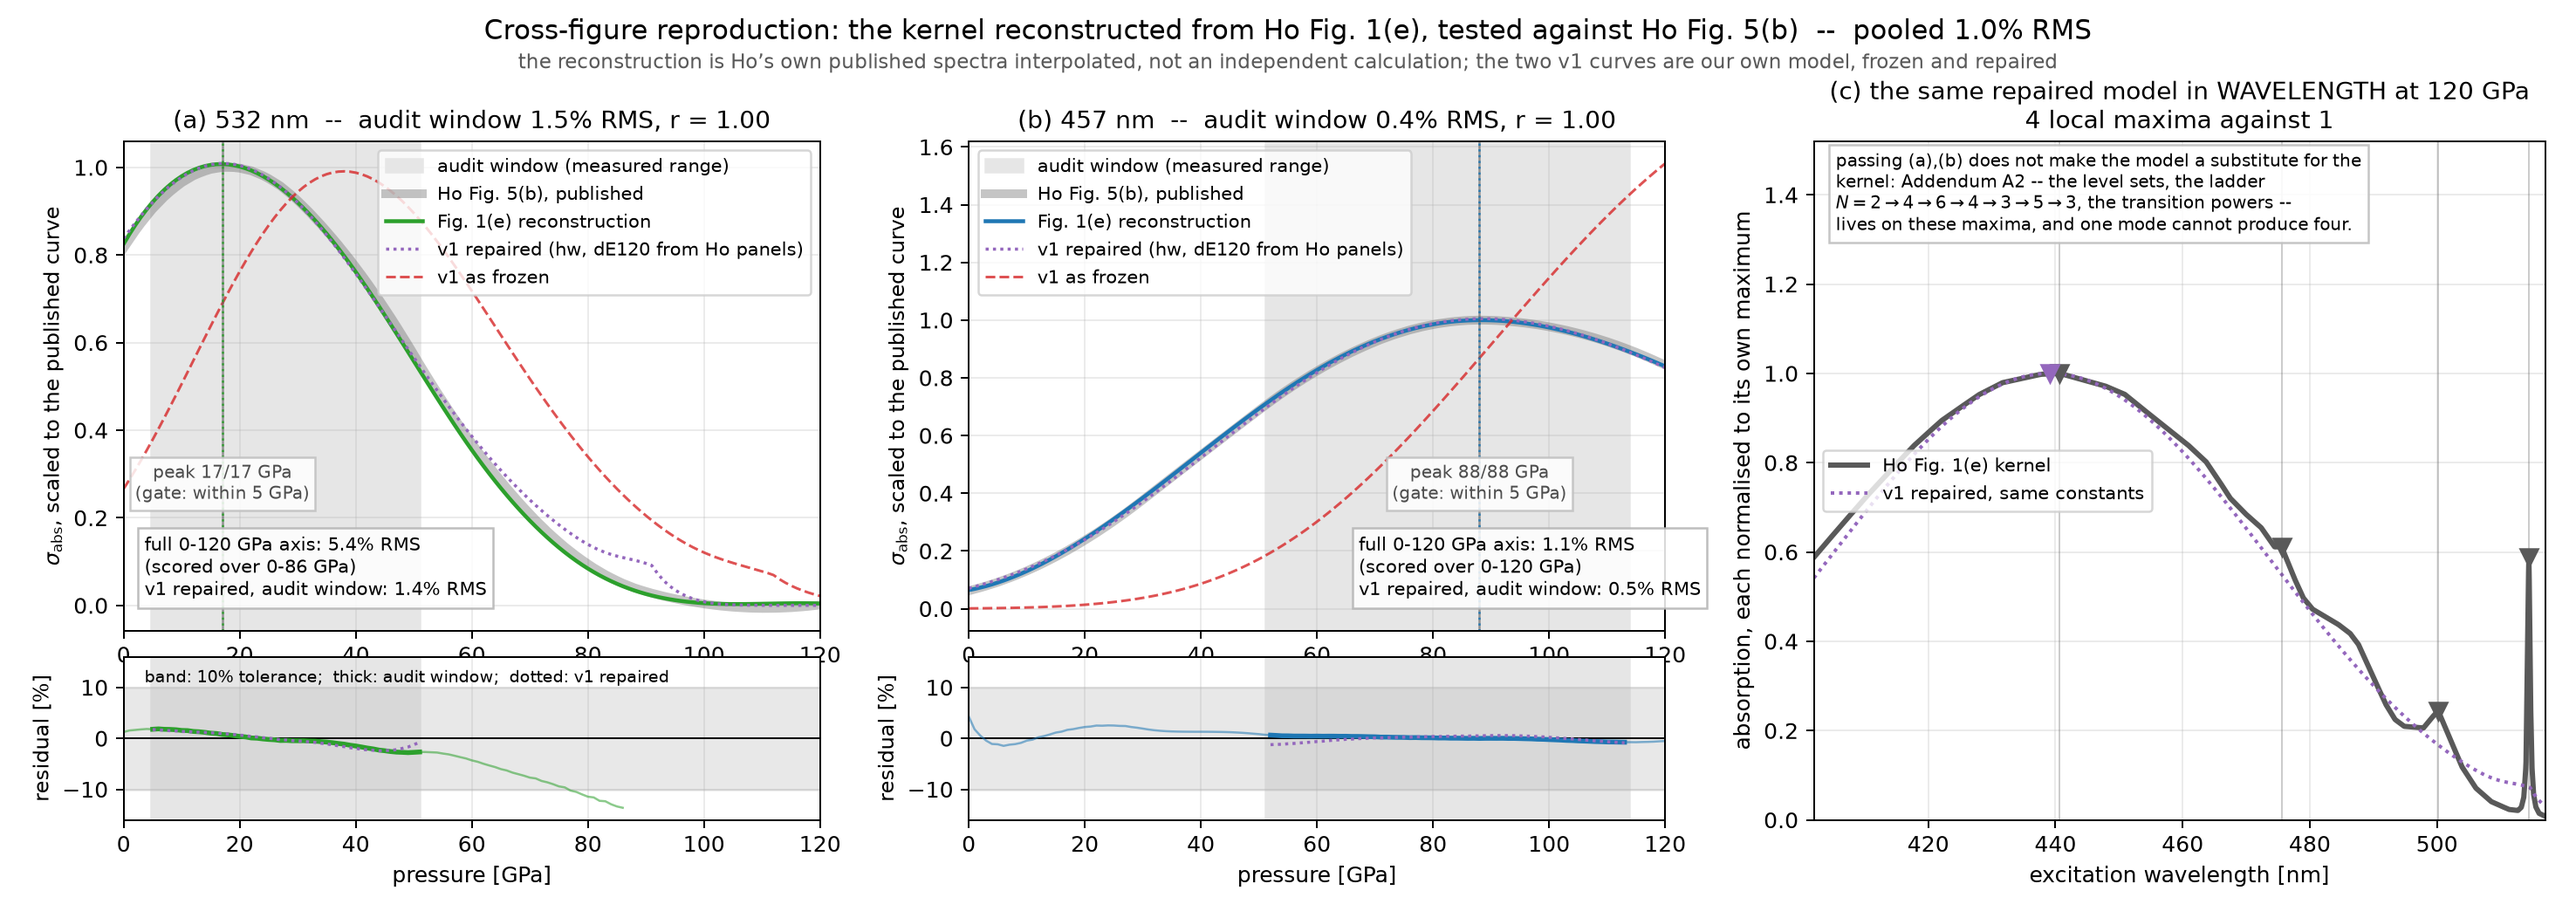
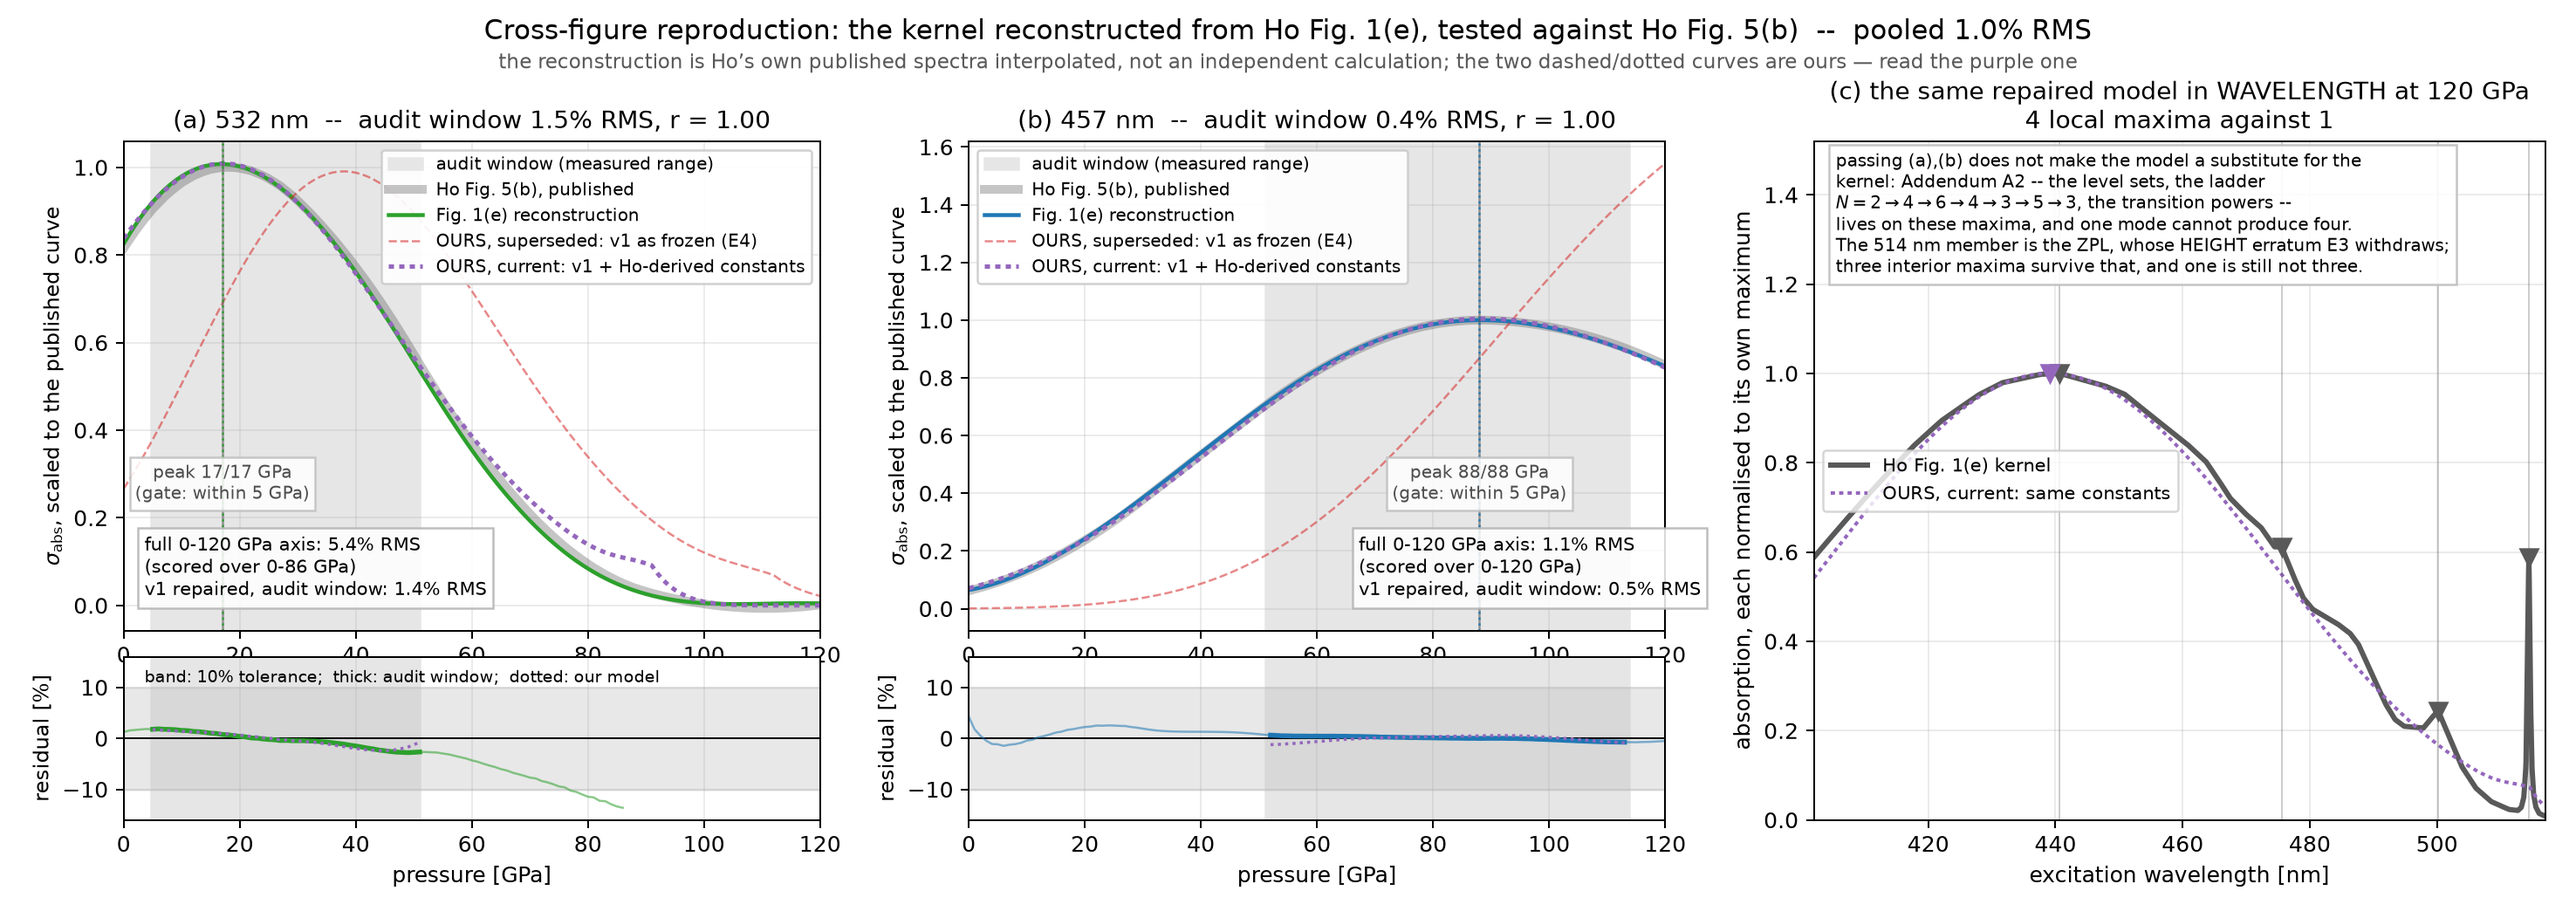
Say in the legend which of our two curves is the current one
"v1 as frozen" and "v1 repaired" did not tell a reader which one to read,
and with the superseded curve drawn heavier than the current one the figure
pointed at the wrong one. Both are now prefixed OURS and labelled
superseded/current, the current curve is the heavier of the two, and the
subtitle says to read the purple one.

Also lands the 514 nm ZPL caveat in panel (c). The previous commit's message
claimed it was there; the edit had not matched, so it was not.

Claude-Session: https://claude.ai/code/session_01Cv2Yg4snpWjz7ZVfDPoPG9

diff --git a/code/fig8_repro_ho_fig5b.py b/code/fig8_repro_ho_fig5b.py
@@ -165,11 +165,12 @@ def main():
                  alpha=0.35, label='Ho Fig. 5(b), published')
         top.plot(pressure, recon / norm, color=COLOUR[lam], lw=1.8,
                  label='Fig. 1(e) reconstruction')
-        top.plot(pressure, fixed / norm, color=V1_FIXED_COLOUR, lw=1.4,
-                 ls=(0, (1, 1.4)),
-                 label='v1 repaired (hw, dE120 from Ho panels)')
-        top.plot(pressure, v1 / norm, color=V1_COLOUR, lw=1.2, ls='--',
-                 alpha=0.8, label='v1 as frozen')
+        top.plot(pressure, v1 / norm, color=V1_COLOUR, lw=1.0, ls='--',
+                 alpha=0.55,
+                 label='OURS, superseded: v1 as frozen (E4)')
+        top.plot(pressure, fixed / norm, color=V1_FIXED_COLOUR, lw=2.0,
+                 ls=(0, (1.2, 1.2)),
+                 label='OURS, current: v1 + Ho-derived constants')
 
         # the peak gate: both markers coincide, so only one line is visible
         peak_ref = float(pressure[inside][np.argmax(reference[inside])])
@@ -208,7 +209,7 @@ def main():
                  bbox=dict(fc='white', ec='0.7', alpha=0.85, pad=3.0))
         top.set_ylabel(r'$\sigma_{\rm abs}$, scaled to the published curve',
                        fontsize=9.5)
-        top.legend(fontsize=8.5,
+        top.legend(fontsize=7.8, framealpha=0.92,
                    loc='upper right' if lam == 532.0 else 'upper left')
         top.grid(alpha=0.25)
 
@@ -234,7 +235,7 @@ def main():
 
     pooled = float(np.sqrt(np.mean(np.concatenate(pooled_window) ** 2)))
     axes[1][0].text(0.03, 0.92, 'band: 10% tolerance;  thick: audit window;  '
-                    'dotted: v1 repaired', transform=axes[1][0].transAxes,
+                    'dotted: our model', transform=axes[1][0].transAxes,
                     fontsize=7.5, va='top')
 
     # ---- (c) why the kernel is still taken from outside --------------------
@@ -251,7 +252,8 @@ def main():
     structure_ax.plot(lam_nm, kernel, color=REF_COLOUR, lw=2.4,
                       label='Ho Fig. 1(e) kernel')
     structure_ax.plot(lam_nm, ours, color=V1_FIXED_COLOUR, lw=1.6,
-                      ls=(0, (1, 1.4)), label='v1 repaired, same constants')
+                      ls=(0, (1.2, 1.2)),
+                      label='OURS, current: same constants')
     peaks = interior(kernel)
     structure_ax.plot(lam_nm[peaks], kernel[peaks], 'v', color=REF_COLOUR,
                       ms=8, zorder=5)
@@ -275,7 +277,9 @@ def main():
         'passing (a),(b) does not make the model a substitute for the\n'
         'kernel: Addendum A2 -- the level sets, the ladder\n'
         r'$N=2\to4\to6\to4\to3\to5\to3$, the transition powers --'
-        '\nlives on these maxima, and one mode cannot produce four.',
+        '\nlives on these maxima, and one mode cannot produce four.\n'
+        'The 514 nm member is the ZPL, whose HEIGHT erratum E3 withdraws;\n'
+        'three interior maxima survive that, and one is still not three.',
         transform=structure_ax.transAxes, fontsize=8.0, va='top',
         bbox=dict(fc='white', ec='0.75', alpha=0.9, pad=3.0))
 
@@ -283,8 +287,8 @@ def main():
                  f'Fig. 1(e), tested against Ho Fig. 5(b)  --  pooled '
                  f'{pooled*100:.1f}% RMS', fontsize=12.5)
     fig.text(0.5, 0.925, 'the reconstruction is Ho\u2019s own published '
-             'spectra interpolated, not an independent calculation; the two v1 '
-             'curves are our own model, frozen and repaired',
+             'spectra interpolated, not an independent calculation; the two '
+             'dashed/dotted curves are ours \u2014 read the purple one',
              ha='center', fontsize=9.0, color='0.35')
     fig.subplots_adjust(left=0.048, right=0.988, top=0.845, bottom=0.10,
                         wspace=0.21, hspace=0.08)
